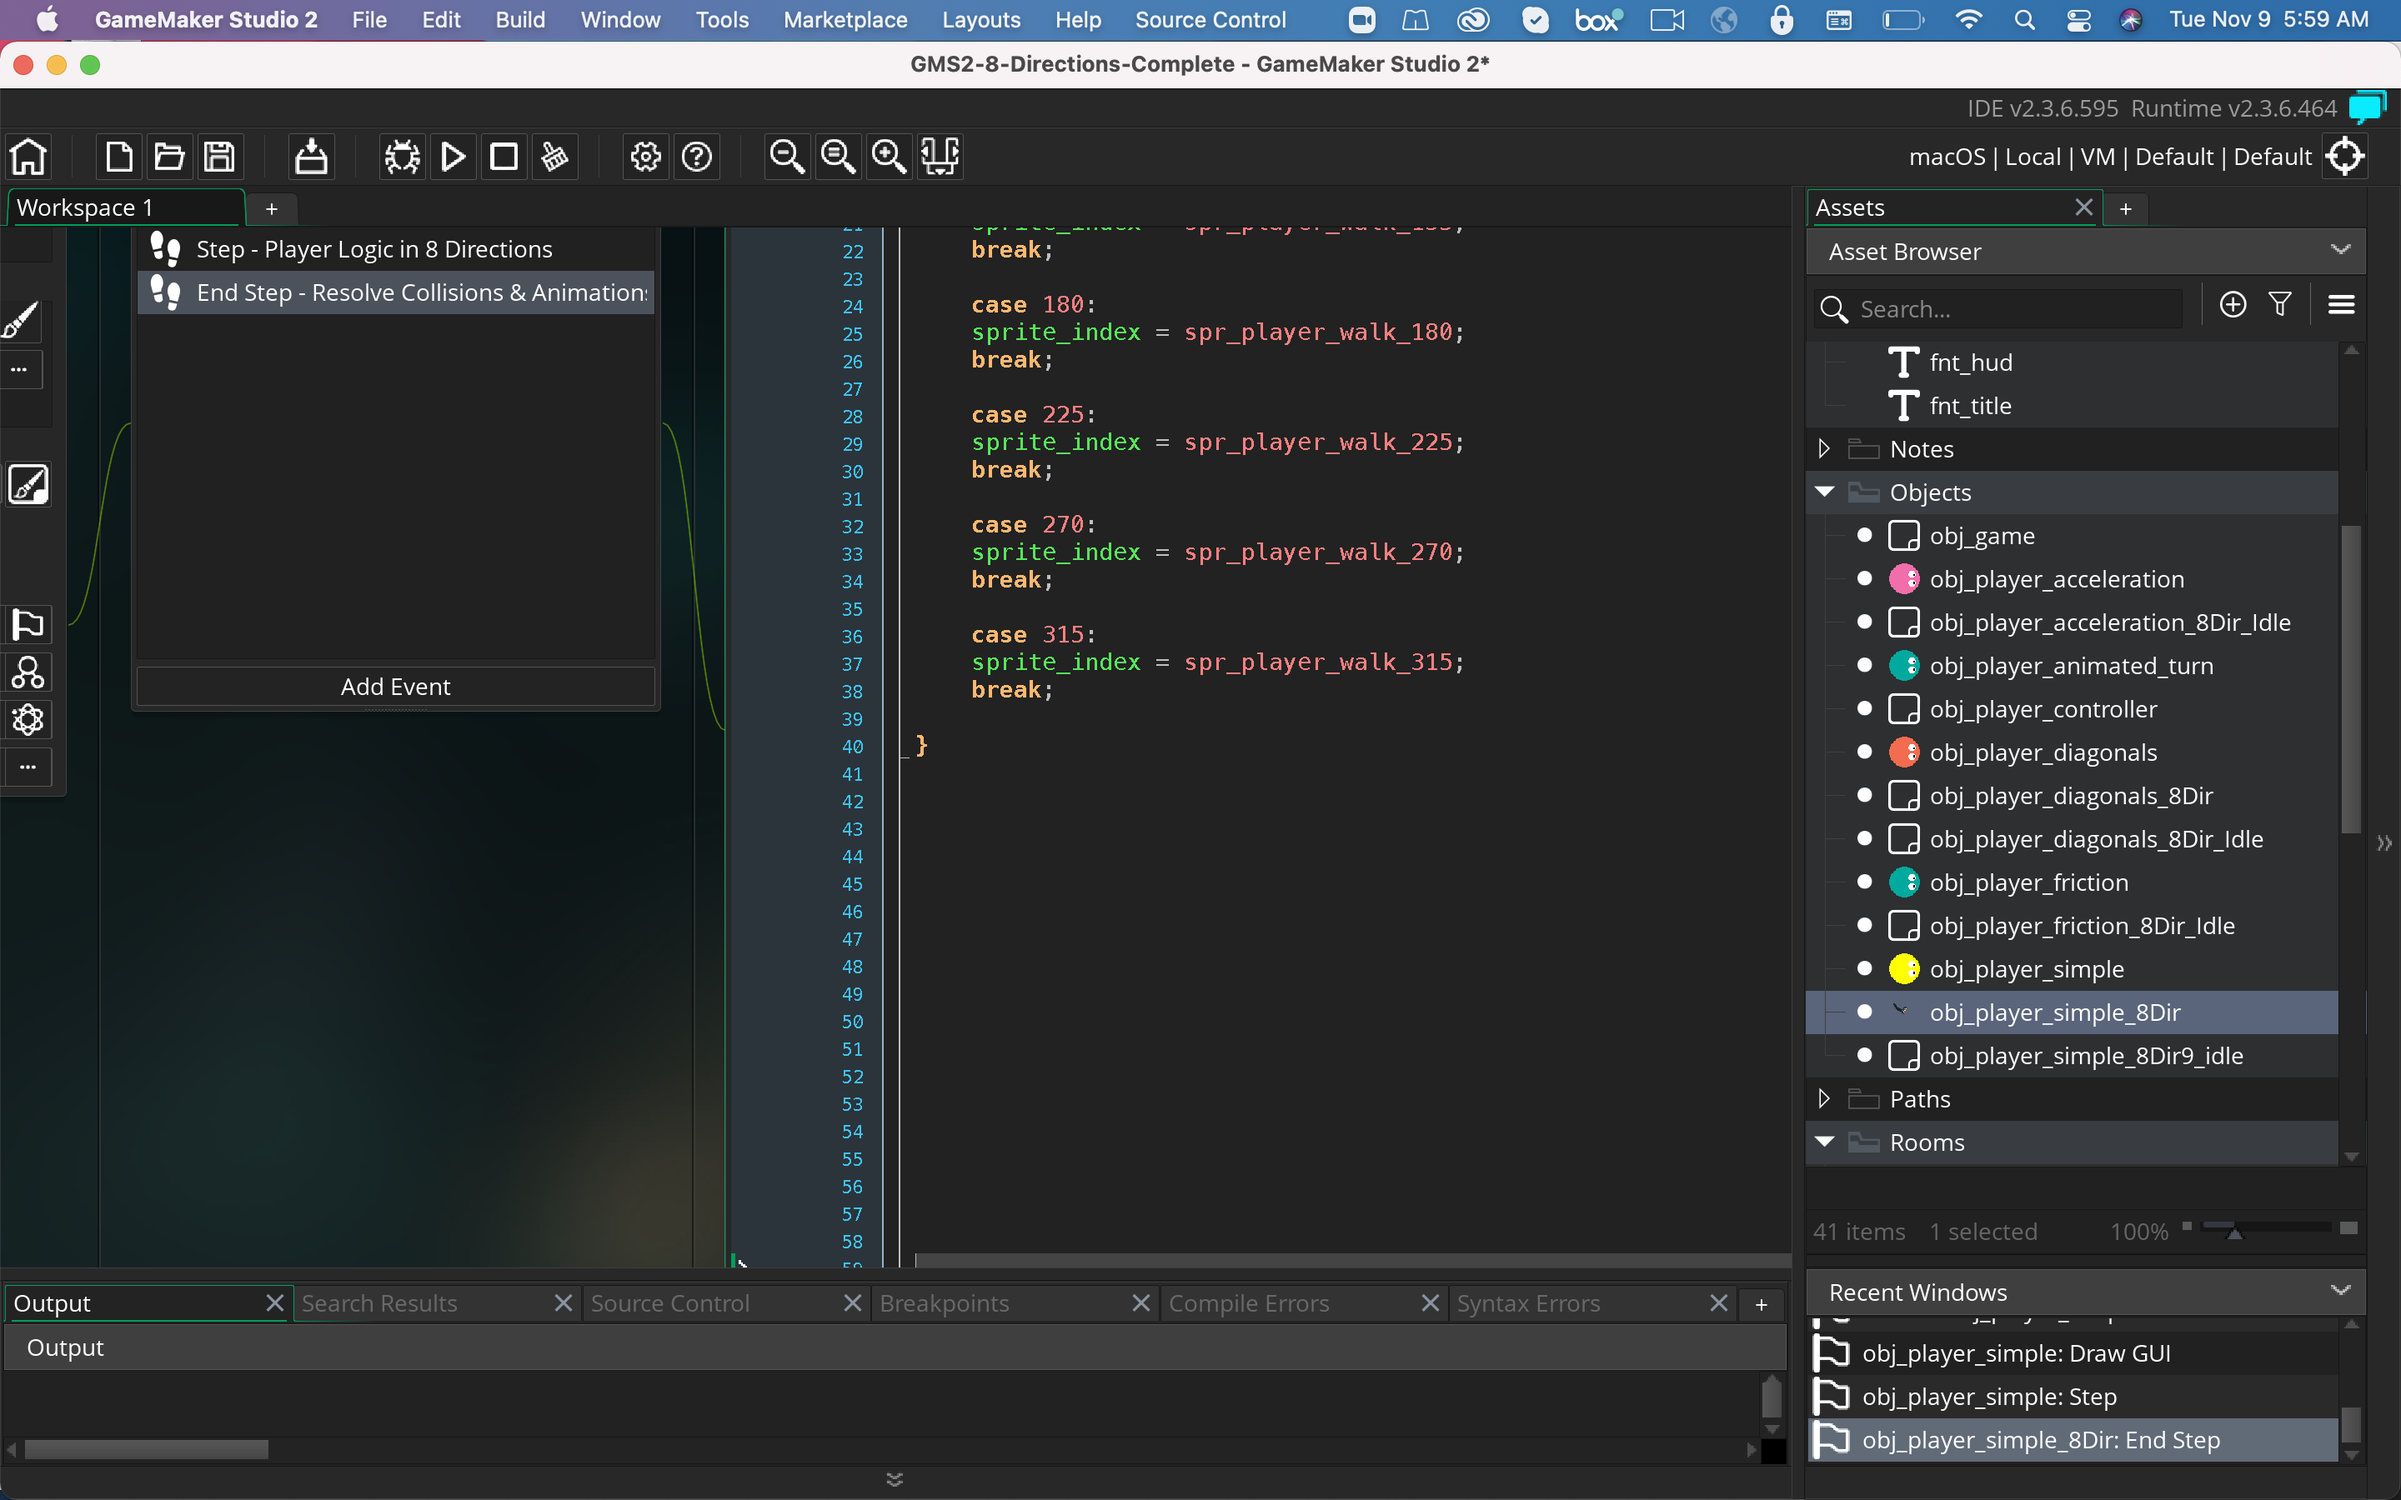
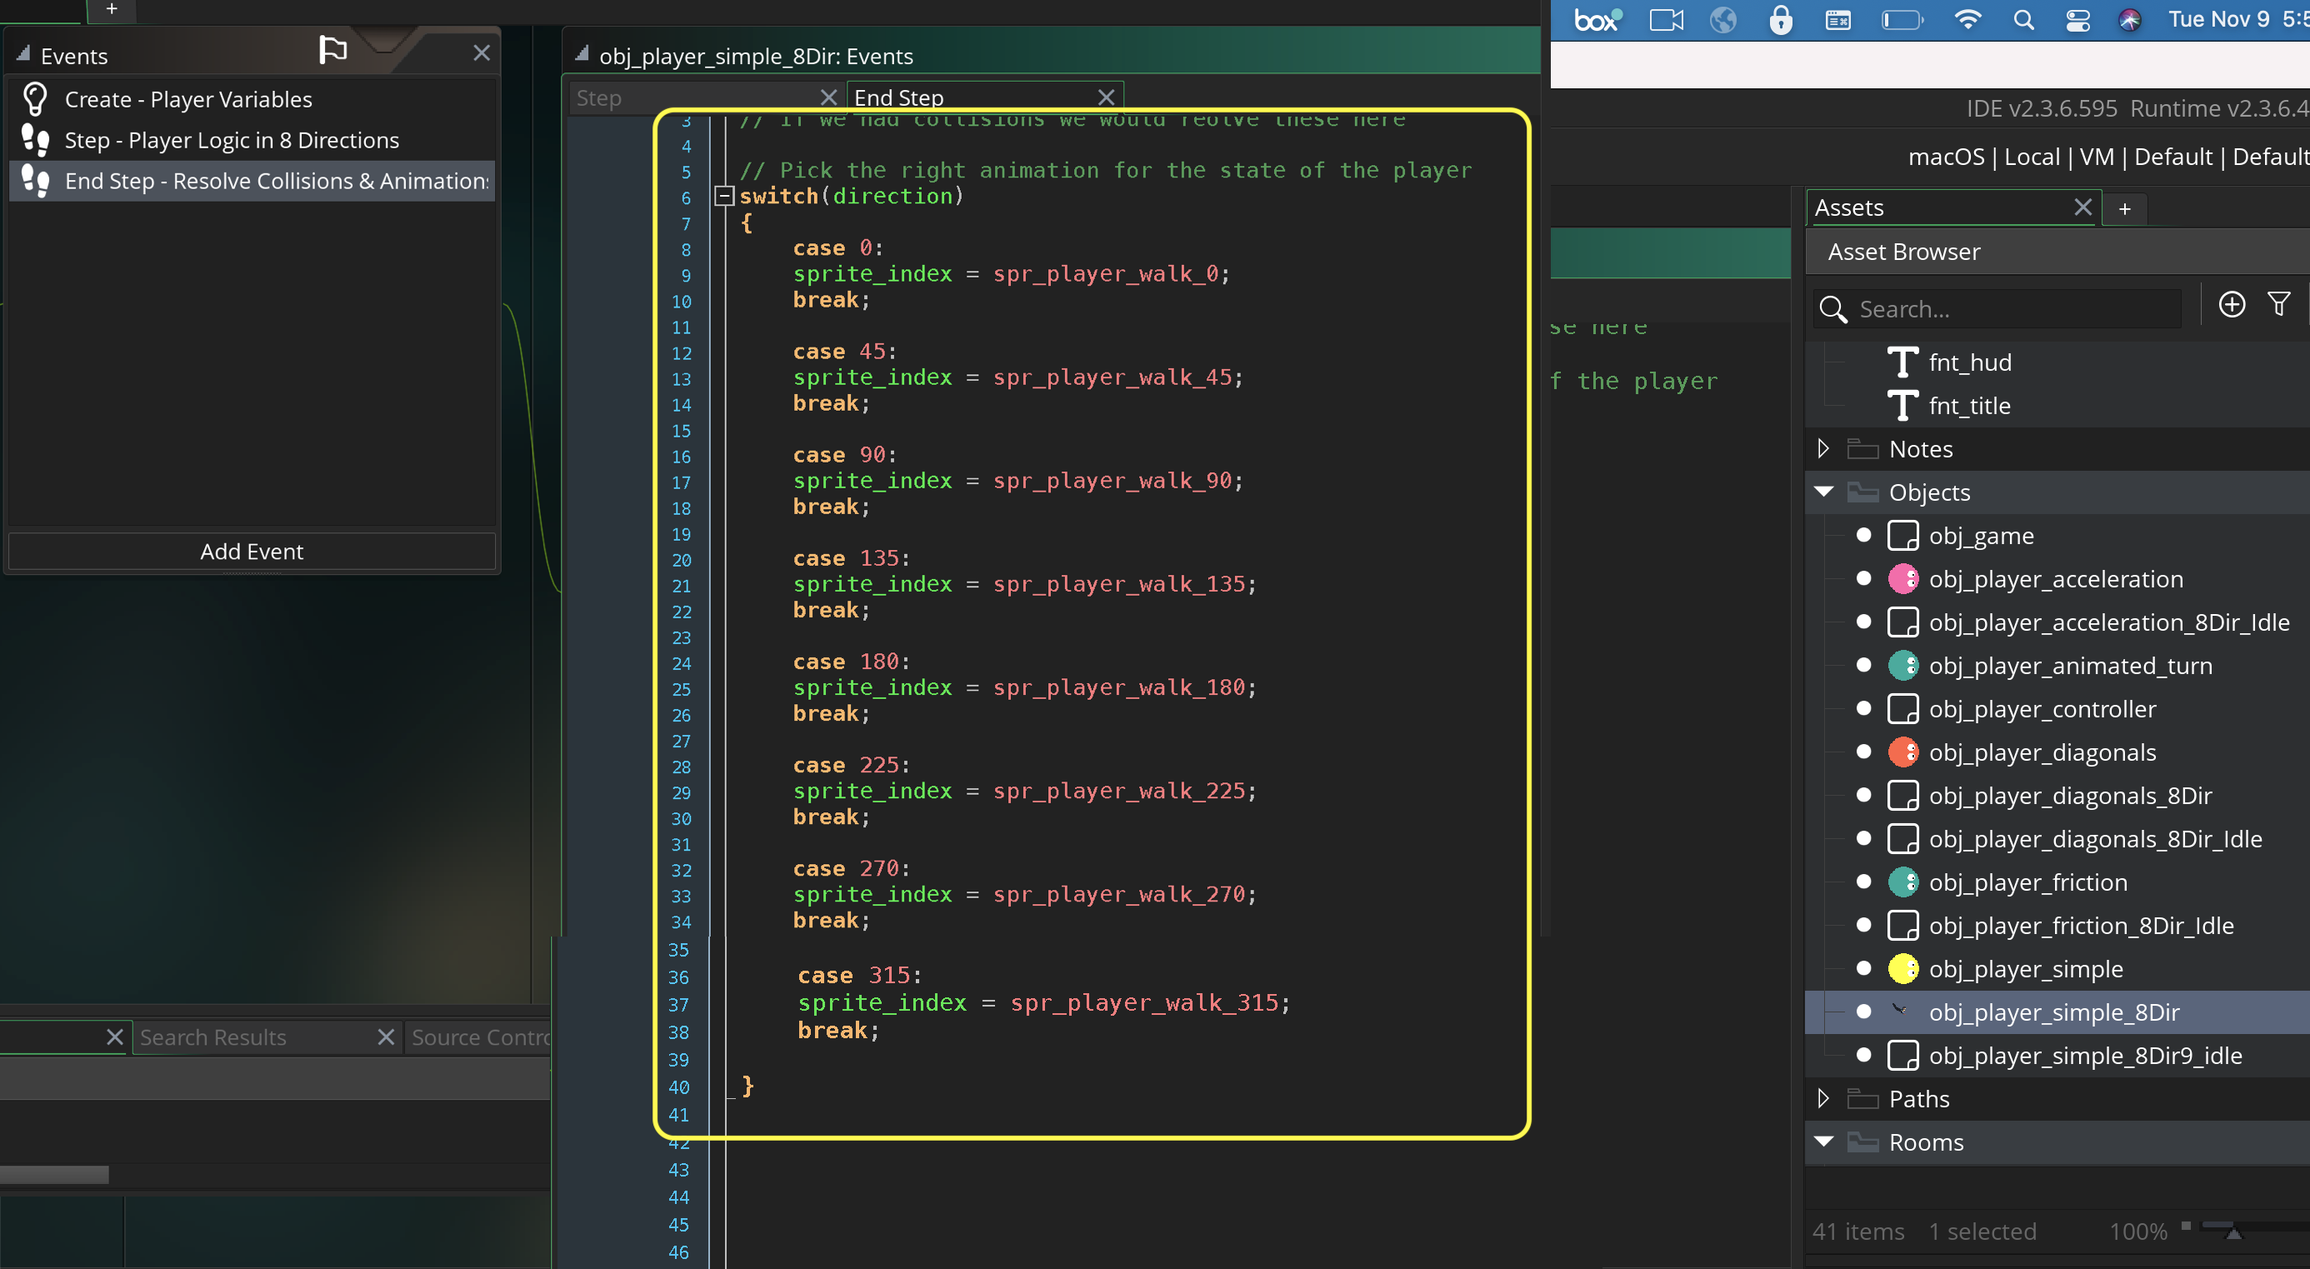
Update updating moving 8 directions

diff --git a/simple-8dir/README.md b/simple-8dir/README.md
@@ -134,9 +134,9 @@ Now we normally:
 
 So in the **Step** event we get the controls, update the player physics.  But the player does not move at that point when using `speed`, `hspeed` or `vspeed`.  The position will change between the **Step** and the **End Step** event.  This means that to resolve collisions, we only know if an object is colliding in the **End Step**.  
 
-So press the <kbd>Add Event</kbd> button and select a **Step | End Step** event.
+So press the <kbd>Add Event</kbd> button and select a **Step | End Step** event. Then we **switch** on the **Direction** the player is moving in and select the appropriate sprite.
 
-![alt_text](images/endStep.png)
+![add an end step event and select animation based on direction](images/endStep.png)
 
 <img src="https://via.placeholder.com/500x2/45D7CA/45D7CA" alt="drawing" height="2px" alt = ""/>
 
